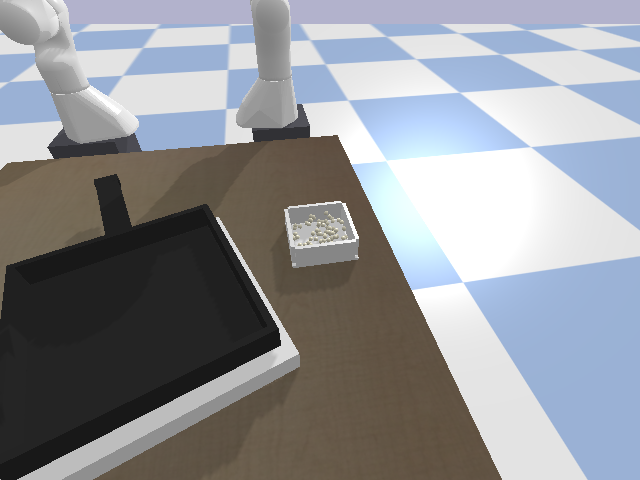
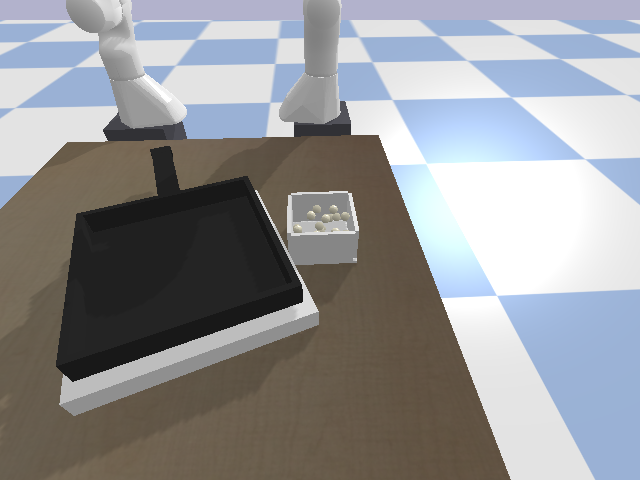
feat: fix pouring into pan task

diff --git a/robot_chef/tasks/pour_bowl_into_pan.py b/robot_chef/tasks/pour_bowl_into_pan.py
@@ -150,13 +150,13 @@ class PourBowlIntoPanAndReturn:
         if not candidates: LOGGER.error("No grasp candidates."); return False
 
         MIN_GRASP_WIDTH = 0.005
-        LONG_TIMEOUT = 12.0 # Increased slightly again
-        NORMAL_TIMEOUT = 9.0 # Increased slightly again
+        LONG_TIMEOUT = 6.0
+        NORMAL_TIMEOUT = 4.0
 
-        POUR_STEPS = 150 # Even more steps
-        TOTAL_POUR_TIME_S = 8.0 # Pour over 10 seconds
+        POUR_STEPS = 80
+        TOTAL_POUR_TIME_S = 3.0
         POUR_STEP_SIM_TIME = max(1, int( (TOTAL_POUR_TIME_S / POUR_STEPS) / sim.dt ))
-        POUR_STEP_GAIN = 0.015 # Very low gain
+        POUR_STEP_GAIN = 0.03
 
 
         for idx, candidate in enumerate(candidates[:3]):
@@ -172,19 +172,34 @@ class PourBowlIntoPanAndReturn:
             if not self.controller.move_waypoint(approach_pose, quat_grasp, timeout_s=NORMAL_TIMEOUT): LOGGER.warning("Approach failed."); continue
             grasp_pose = position.copy(); grasp_pose[2] += max(0.0, cfg.perception.rim_thickness_m * 0.5) - 0.003
             if not self.controller.move_waypoint(grasp_pose, quat_grasp, timeout_s=NORMAL_TIMEOUT): LOGGER.warning("Grasp pose failed."); continue
-            self.controller.close_gripper(); LOGGER.info("Pausing after grasp command..."); sim.step_simulation(steps=240)
+            self.controller.close_gripper(); LOGGER.info("Pausing after grasp command..."); sim.step_simulation(steps=60)
             current_width = sim.get_gripper_width(arm=self.active_arm_name)
             if current_width < MIN_GRASP_WIDTH: LOGGER.warning("Grasp FAILED (%.4f < %.4f). Retrying.", current_width, MIN_GRASP_WIDTH); self.controller.open_gripper(); self.controller.move_waypoint(pregrasp_pose, quat_grasp, timeout_s=NORMAL_TIMEOUT); continue
             LOGGER.info("Grasp SUCCEEDED (%.4f).", current_width)
 
-            # === Step 2: Lift the bowl === (Unchanged logic)
+            # === Step 2: Lift the bowl SMOOTHLY ===
             pan_pose_sim: Pose6D = sim.objects["pan"]["pose"]
             if pan_pose_sim is None: LOGGER.error("Pan pose missing."); continue
             safe_lift_z = pan_pose_sim.z + 0.35
+            
+            # --- BEGIN SMOOTH LIFT CHANGE ---
             intermediate_lift_pos = grasp_pose.copy(); intermediate_lift_pos[2] += 0.20
-            LOGGER.info("Lifting straight up to %.3f m", intermediate_lift_pos[2])
-            if not self.controller.move_waypoint(intermediate_lift_pos, quat_grasp, timeout_s=NORMAL_TIMEOUT): LOGGER.warning("Initial lift failed."); continue
-            LOGGER.info("Pausing after initial lift..."); sim.step_simulation(steps=120)
+            LOGGER.info("Lifting straight up smoothly to %.3f m", intermediate_lift_pos[2])
+            
+            # Interpolate the vertical lift over 25 steps instead of 1 waypoint
+            start_lift_pos = grasp_pose.copy()
+            LIFT_STEPS = 25
+            for i in range(LIFT_STEPS + 1):
+                alpha = i / LIFT_STEPS
+                # Linear interp z
+                curr_pos = (1.0 - alpha) * start_lift_pos + alpha * intermediate_lift_pos
+                # Shorter timeout per step
+                step_timeout = max(sim.dt * 10, NORMAL_TIMEOUT / LIFT_STEPS)
+                if not self.controller.move_waypoint(curr_pos, quat_grasp, timeout_s=step_timeout):
+                     LOGGER.warning("Smooth lift step %d failed", i)
+                     break
+            # --- END SMOOTH LIFT CHANGE ---
+
             safe_lift_pos = intermediate_lift_pos.copy(); safe_lift_pos[2] = safe_lift_z
             LOGGER.info("Lifting to safe height: %.3f m", safe_lift_z)
             self.controller.move_waypoint(safe_lift_pos, quat_grasp, timeout_s=LONG_TIMEOUT)
@@ -193,9 +208,11 @@ class PourBowlIntoPanAndReturn:
             pan_center_xy = np.array([pan_pose_sim.x, pan_pose_sim.y], dtype=float)
             pan_quat_xyzw = _pose_to_quaternion(pan_pose_sim)
             pan_R = np.array(p.getMatrixFromQuaternion(pan_quat_xyzw)).reshape(3, 3)
-            # --- CORRECTED OFFSET CALCULATION ---
-            # Pan local +X points along the handle. We want to move in the -X direction.
-            offset_dist = 0.20 # Offset 15cm from center, AWAY from handle
+            
+            # --- CORRECTED OFFSET CALCULATION (Shifted further) ---
+            # Increase magnitude to 0.22 (was 0.20 originally, 0.28 was too far)
+            # Assuming handle is at +X local, we go to -X local.
+            offset_dist = 0.22  
             offset_local = np.array([-offset_dist, 0.0, 0.0], dtype=float) # NEGATIVE X offset
             offset_world = pan_R @ offset_local
             above_pan_target_xy = pan_center_xy + offset_world[:2]
@@ -204,7 +221,7 @@ class PourBowlIntoPanAndReturn:
             # --- END CORRECTED OFFSET ---
 
             # 3a. Smooth horizontal move
-            HORIZONTAL_MOVE_STEPS = 25
+            HORIZONTAL_MOVE_STEPS = 15
             current_ls = p.getLinkState(self.controller.arm_id, self.controller.ee_link, physicsClientId=sim.client_id)
             start_pos_horizontal = np.array(current_ls[0], dtype=float)
             LOGGER.info("Moving smoothly above pan cooking area (offset %.2f m) over %d steps...", offset_dist, HORIZONTAL_MOVE_STEPS)

diff --git a/robot_chef/env/particles.py b/robot_chef/env/particles.py
@@ -49,7 +49,7 @@ def spawn_spheres(
     spawn_height: float,
     seed: int = 7,
     mass: float = 0.01,  
-    friction: float = 0.8,
+    friction: float = 0.2, # Reduced friction (was 0.8)
 ) -> ParticleSet:
     """Spawn spherical particles inside a bowl volume."""
     rng = random.Random(seed)
@@ -81,7 +81,7 @@ def spawn_spheres(
             linkIndex=-1,
             lateralFriction=friction,
             spinningFriction=friction,
-            rollingFriction=friction * 0.5,
+            rollingFriction=0.01, # Reduced rolling friction
             restitution=0.0,
             physicsClientId=client_id,
         )

diff --git a/robot_chef/config.py b/robot_chef/config.py
@@ -222,7 +222,7 @@ def load_pour_task_config(path: Union[str, Path]) -> PourTaskConfig:
 
     tilt_angle_deg = float(data.get("tilt_angle_deg", task_runtime.tilt_angle_deg))
     hold_sec = float(data.get("hold_sec", task_runtime.hold_sec))
-    particles = int(data.get("particles", 0))
+    particles = int(data.get("particles", 30)) # UPDATED DEFAULT PARTICLES
     seed = int(data.get("seed", 0))
 
     camera_cfg = _load_camera(data)

diff --git a/robot_chef/simulation.py b/robot_chef/simulation.py
@@ -453,7 +453,7 @@ class RobotChefSimulation:
     def spawn_rice_particles(
         self,
         count: int,
-        radius: float = 0.005,
+        radius: float = 0.01,  # UPDATED DEFAULT RADIUS
         seed: int = 7,
     ) -> Optional[ParticleSet]:
         bowl_entry = self.objects.get("bowl")
